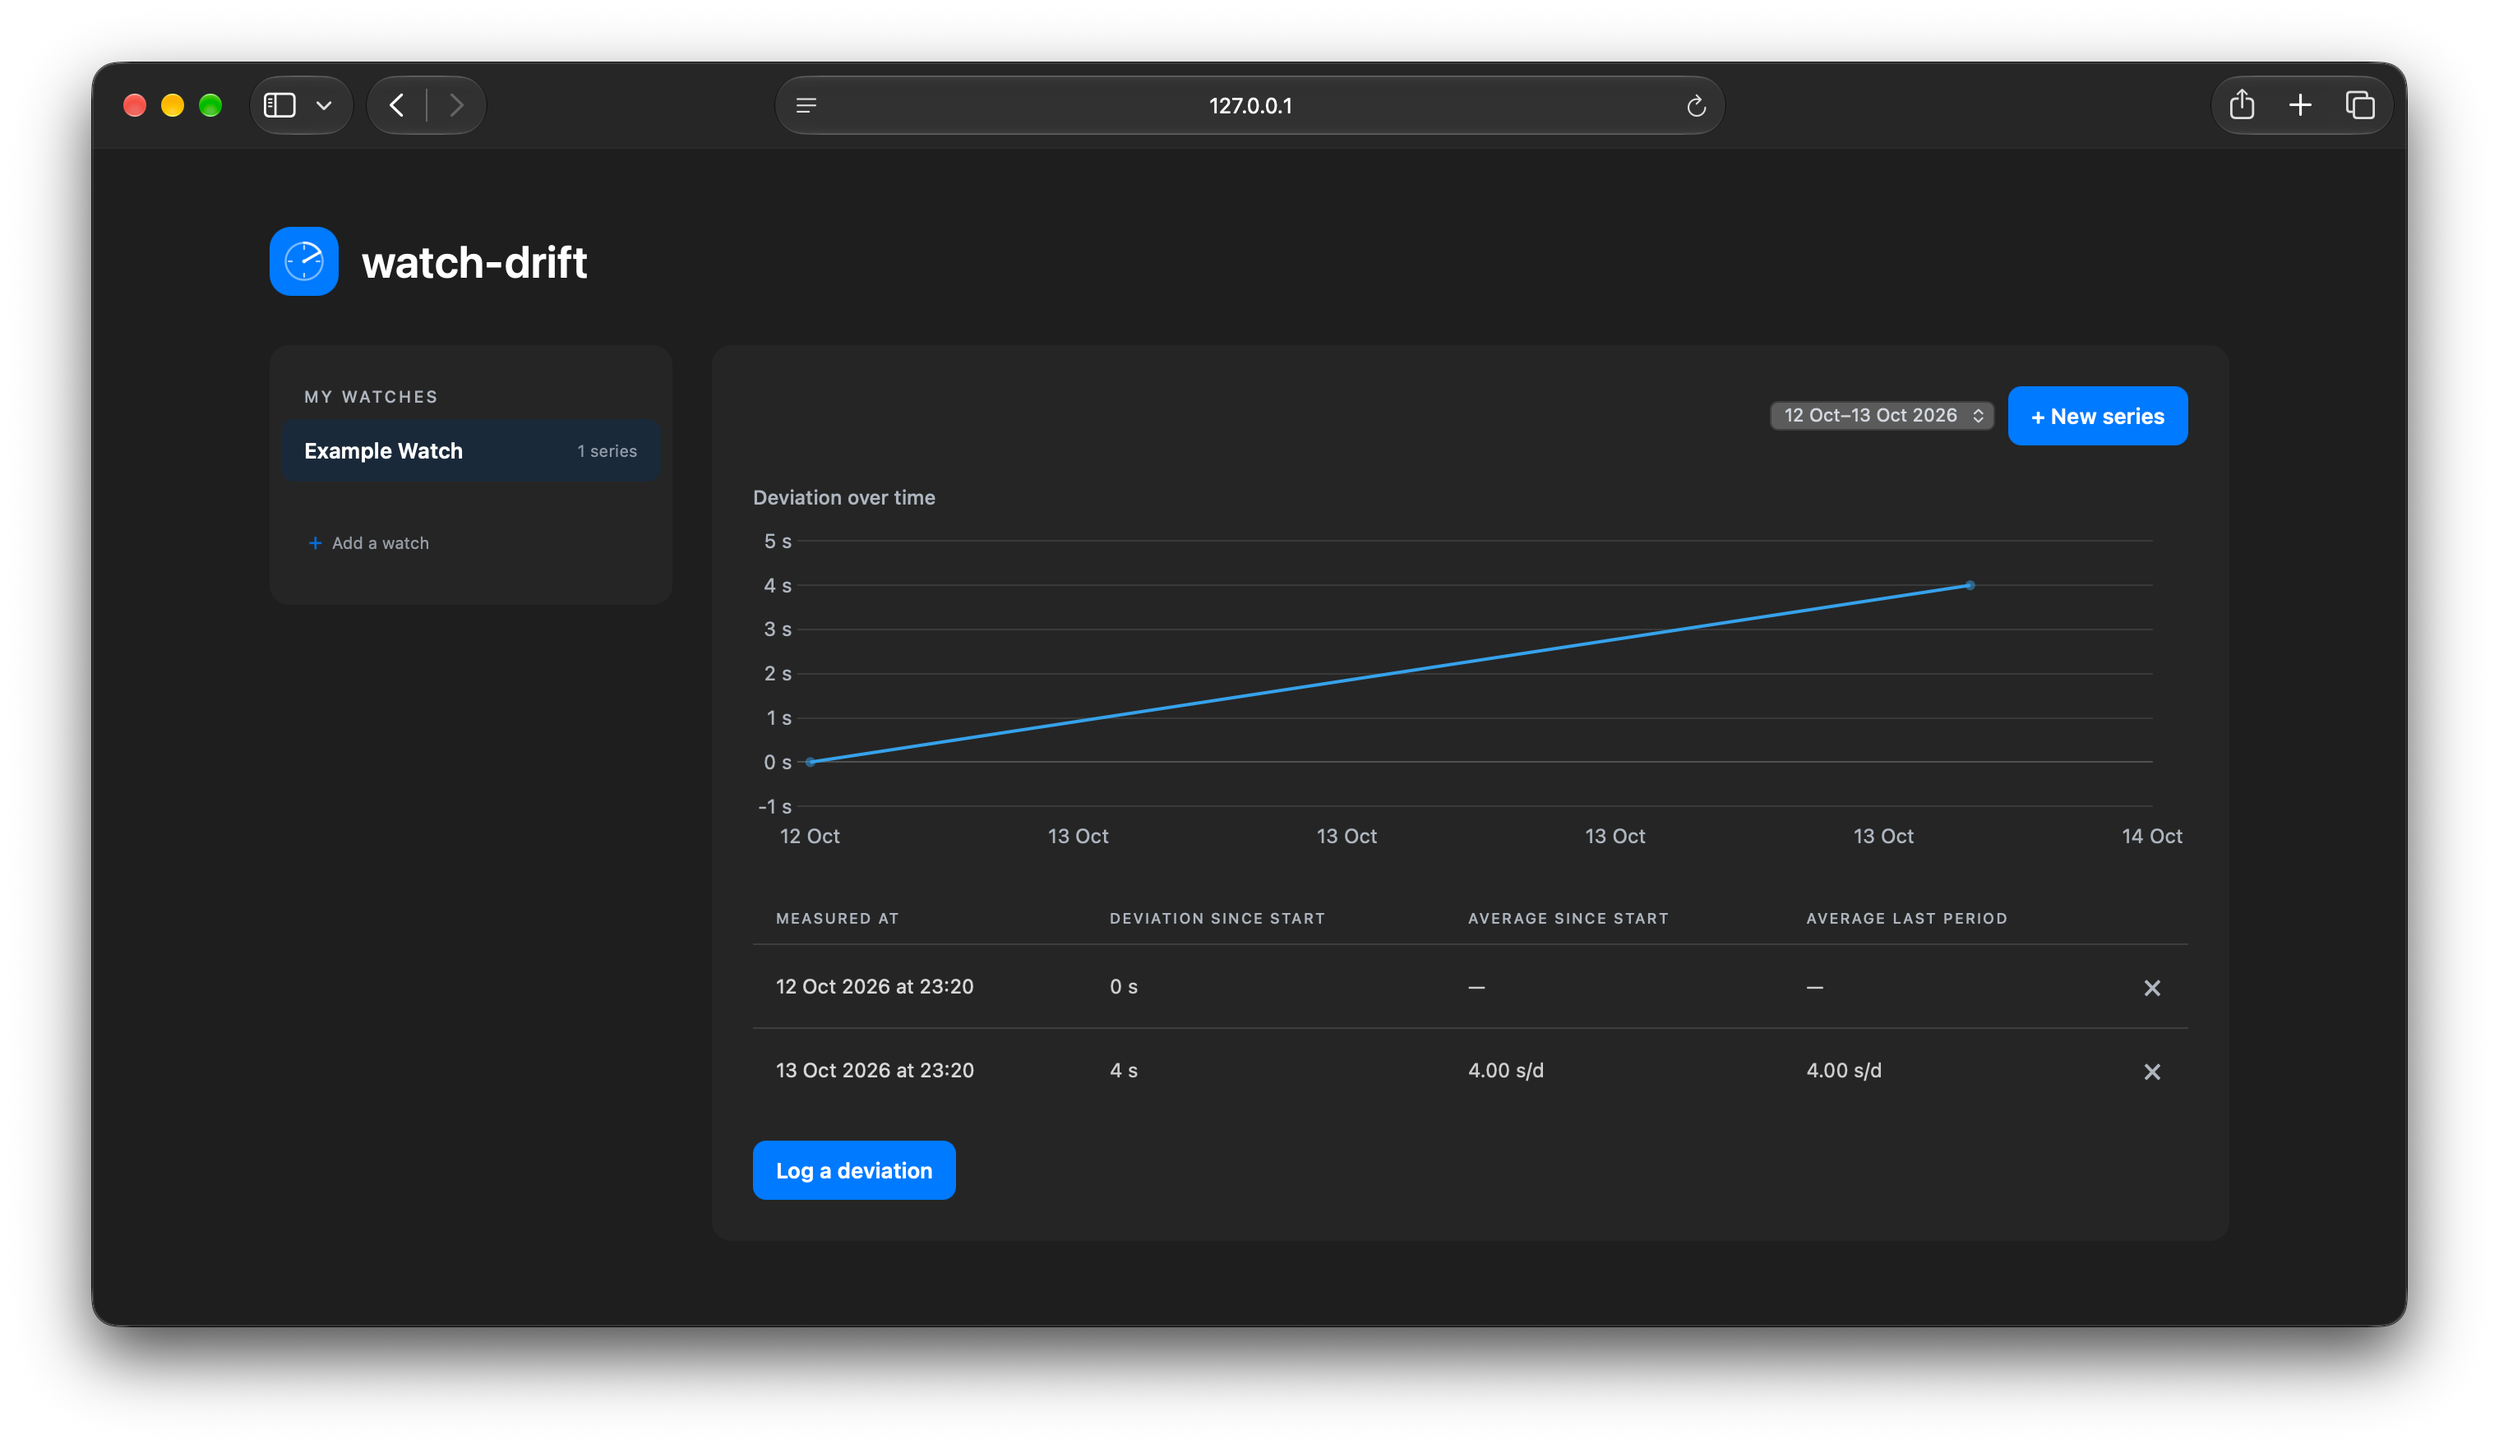
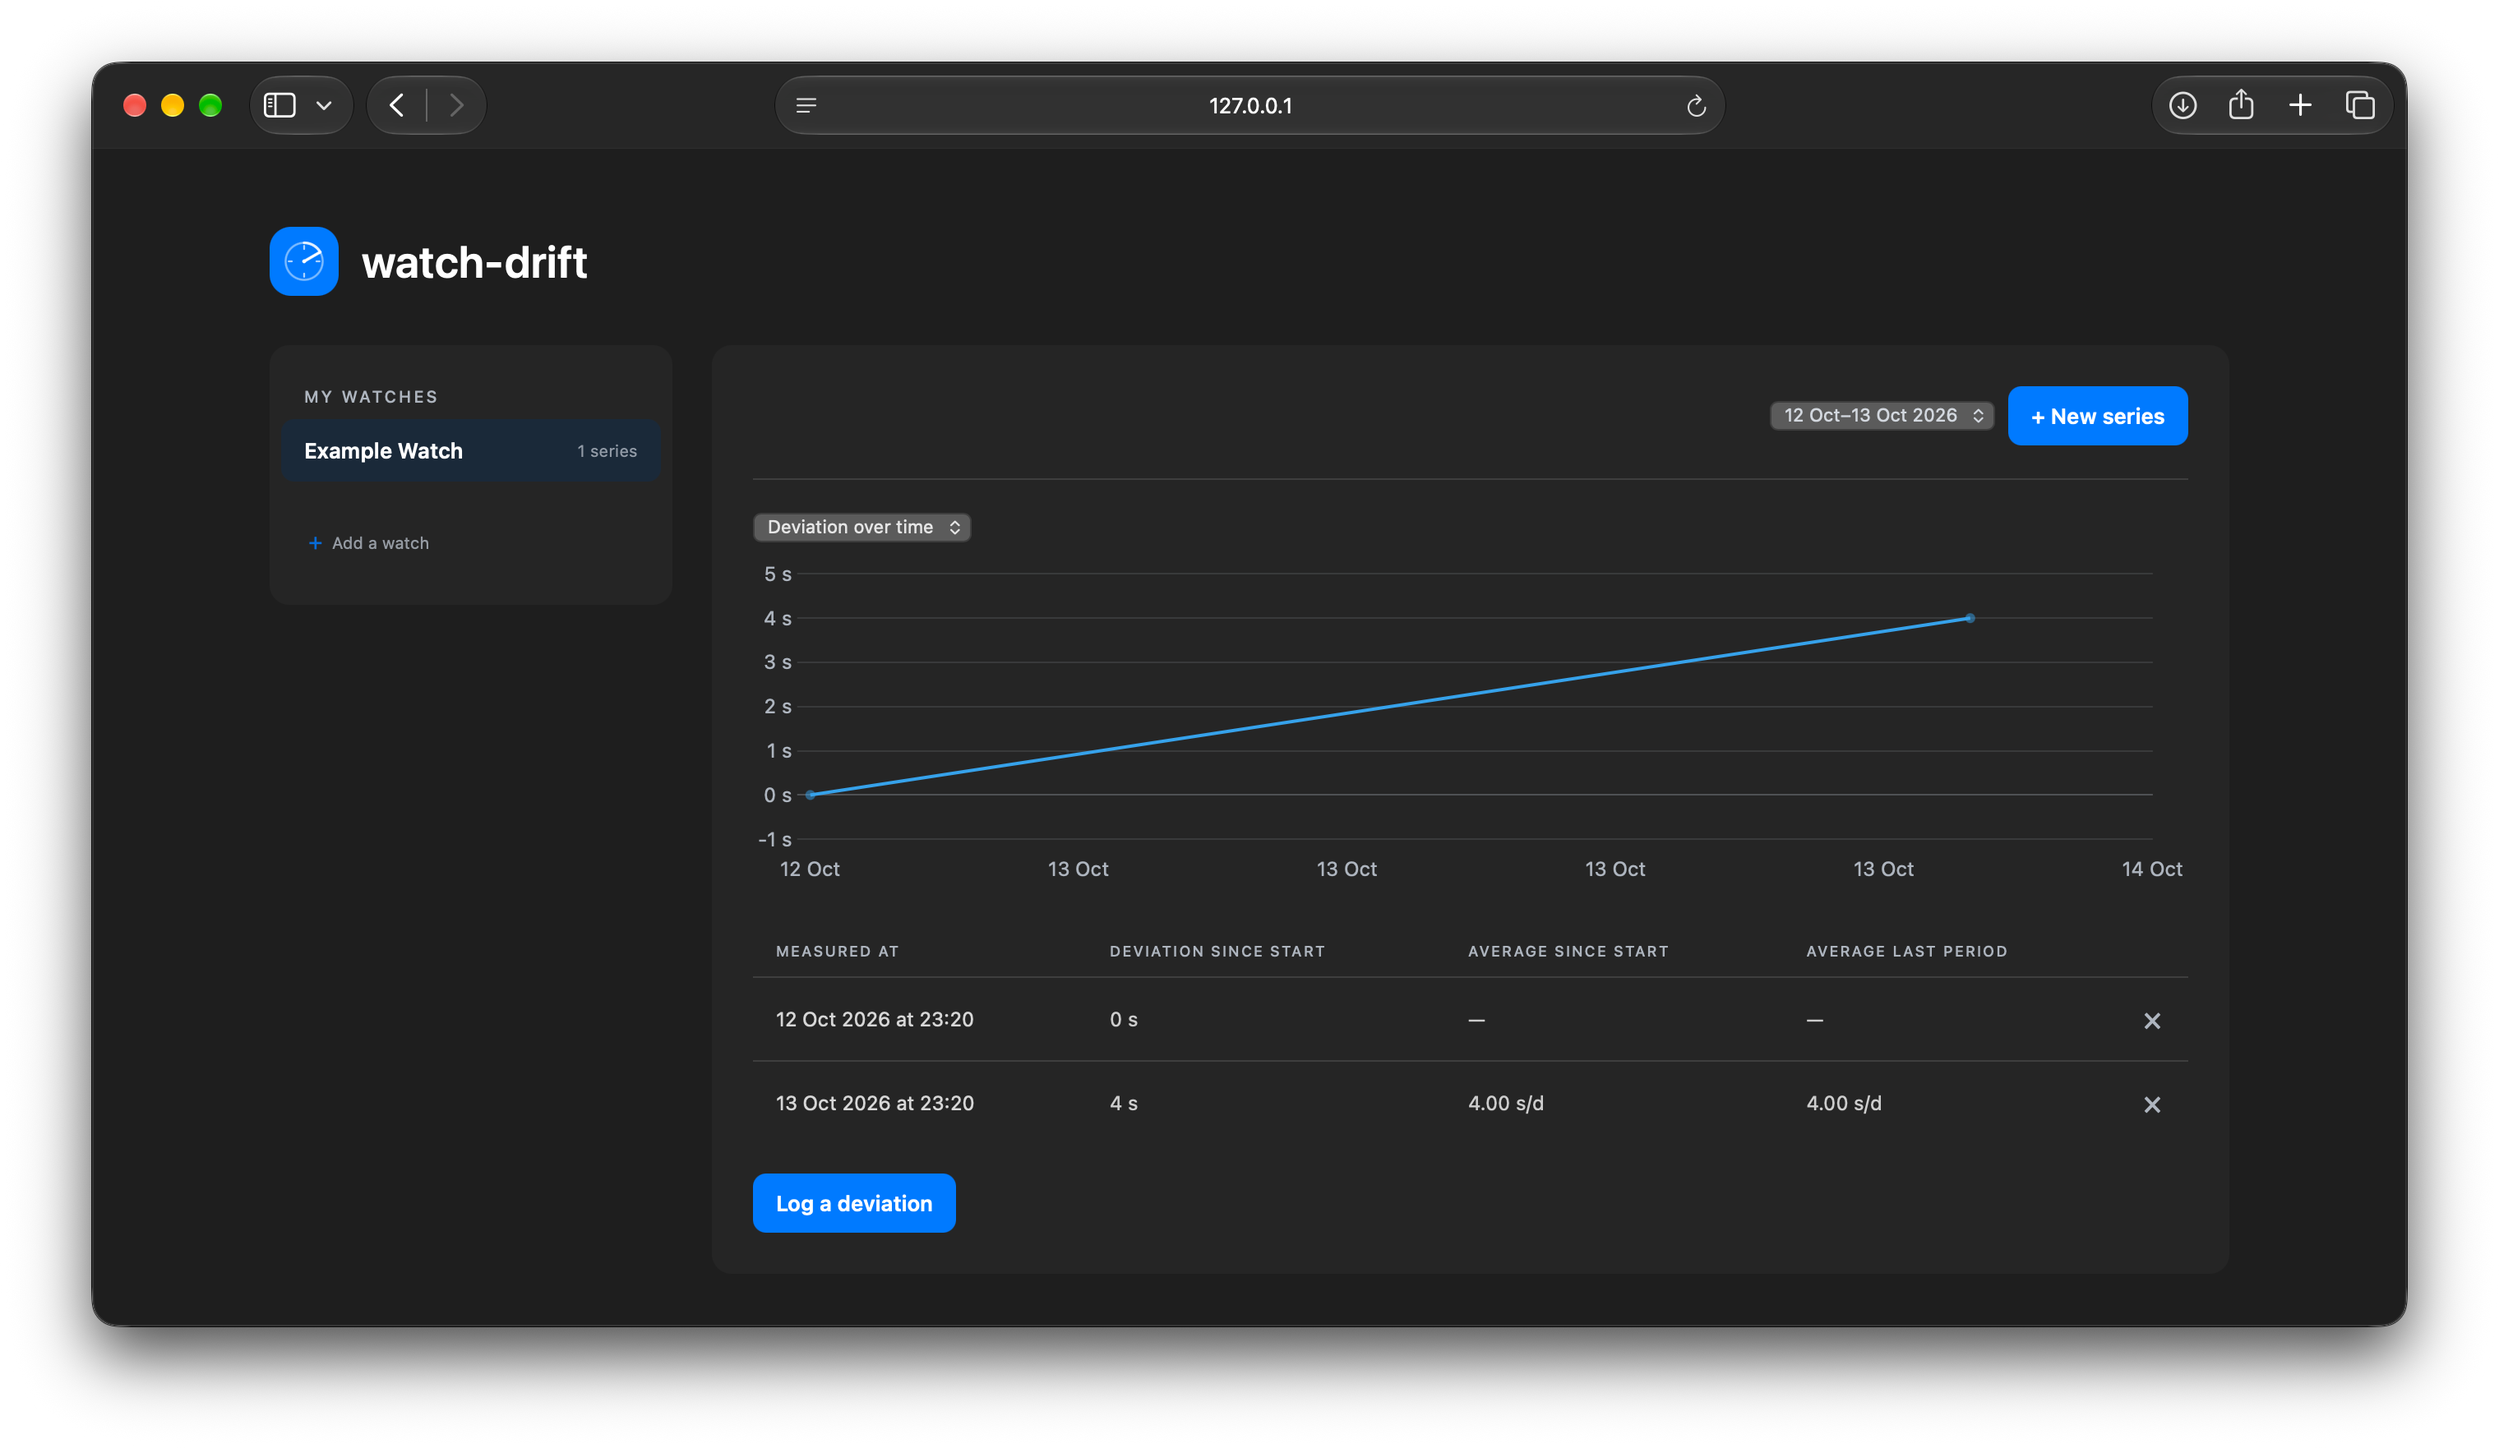
Add average chart view and update screenshot

diff --git a/static/app.js b/static/app.js
@@ -5,6 +5,8 @@ let selectedWatchId = null;
 let deviationChart = null;
 let chartMeasurements = [];
 let chartWatchRange = null;
+let chartWatchMeasurements = [];
+let chartMetric = 'deviation';
 let chartSeriesList = null;
 let printMode = false;
 const colorScheme = window.matchMedia('(prefers-color-scheme: dark)');
@@ -109,31 +111,41 @@ function renderDeviationChart(measurements, watchRange = chartWatchRange, series
   const dark = colorScheme.matches && !printMode;
   const textColor = printMode ? '#555' : getComputedStyle(document.documentElement).getPropertyValue('--muted').trim();
   const gridColor = dark ? 'rgba(174,181,191,.14)' : 'rgba(82,94,108,.12)';
-  const offsets = measurements.map(m => Number(m.offset_seconds));
-  const minOffset = Number(watchRange?.min_offset ?? Math.min(...offsets));
-  const maxOffset = Number(watchRange?.max_offset ?? Math.max(...offsets));
-  const rangePadding = Math.max((maxOffset - minOffset) * 0.06, 1);
-  const yMin = minOffset - rangePadding;
-  const yMax = maxOffset + rangePadding;
-  const datasets = seriesList
-    ? seriesList.map(series => ({
-        label: dateRangeLabel(series.started_at, series.ended_at),
-        data: measurements.filter(m => m.series_id === series.id)
-          .map(m => ({ x: new Date(m.measured_at).getTime(), y: Number(m.offset_seconds) })),
-        borderWidth: 2,
-        pointRadius: 3,
-        pointHoverRadius: 5,
-        pointBorderWidth: 0,
-        tension: 0,
-      }))
-    : [{
-      data: measurements.map(m => ({ x: new Date(m.measured_at).getTime(), y: Number(m.offset_seconds) })),
-      borderWidth: 2,
-      pointRadius: 3,
-      pointHoverRadius: 5,
-      pointBorderWidth: 0,
-      tension: 0,
-    }];
+  const average = chartMetric === 'average';
+  const unit = average ? 's/d' : 's';
+  $('#chart-title').textContent = average ? 'Average over time' : 'Deviation over time';
+  $('#deviation-chart').setAttribute('aria-label', average ? 'Average watch deviation since series start in seconds per day over time' : 'Watch deviation in seconds over time');
+  const toPoints = rows => rows.map(m => {
+    const elapsedDays = (new Date(m.measured_at) - new Date(rows[0].measured_at)) / 86400000;
+    return { x: new Date(m.measured_at).getTime(), y: average
+      ? (elapsedDays > 0 ? (m.offset_seconds - rows[0].offset_seconds) / elapsedDays : null)
+      : Number(m.offset_seconds) };
+  }).filter(point => point.y !== null && Number.isFinite(point.y));
+  const watchGroups = new Map();
+  chartWatchMeasurements.forEach(m => {
+    if (!watchGroups.has(m.series_id)) watchGroups.set(m.series_id, []);
+    watchGroups.get(m.series_id).push(m);
+  });
+  const values = average
+    ? [...watchGroups.values()].flatMap(rows => toPoints(rows).map(point => point.y))
+    : measurements.map(m => Number(m.offset_seconds));
+  const minValue = average ? Math.min(0, ...values) : Number(watchRange?.min_offset ?? Math.min(...values));
+  const maxValue = average ? Math.max(0, ...values) : Number(watchRange?.max_offset ?? Math.max(...values));
+  const rangePadding = Math.max((maxValue - minValue) * 0.06, average ? 0.1 : 1);
+  const yMin = minValue - rangePadding;
+  const yMax = maxValue + rangePadding;
+  const groups = seriesList
+    ? seriesList.map(series => ({ label: dateRangeLabel(series.started_at, series.ended_at), rows: measurements.filter(m => m.series_id === series.id) }))
+    : [{ rows: measurements }];
+  const datasets = groups.map(group => ({
+    label: group.label,
+    data: toPoints(group.rows),
+    borderWidth: 2,
+    pointRadius: 3,
+    pointHoverRadius: 5,
+    pointBorderWidth: 0,
+    tension: 0,
+  }));
   const shortDate = value => new Intl.DateTimeFormat('en-GB', { day: 'numeric', month: 'short' })
     .format(new Date(Number(value))).replace(/\.$/, '');
 
@@ -158,7 +170,7 @@ function renderDeviationChart(measurements, watchRange = chartWatchRange, series
         tooltip: {
           callbacks: {
             title: items => items.length ? dateLabel(new Date(items[0].parsed.x)) : '',
-            label: item => `${wholeSeconds(item.parsed.y)} s`,
+            label: item => `${average ? fixedSeconds(item.parsed.y) : wholeSeconds(item.parsed.y)} ${unit}`,
           },
         },
       },
@@ -176,7 +188,7 @@ function renderDeviationChart(measurements, watchRange = chartWatchRange, series
           border: { display: false },
           ticks: {
             color: textColor,
-            callback: value => `${new Intl.NumberFormat('en-GB', { maximumFractionDigits: 1 }).format(value)} s`,
+            callback: value => `${new Intl.NumberFormat('en-GB', { maximumFractionDigits: 1 }).format(value)} ${unit}`,
           },
         },
       },
@@ -228,6 +240,8 @@ async function showSeries(id) {
   selectedWatchId = data.series.watch_id;
   renderWatchList();
   updatePrintMeta(dateRangeLabel(data.series.started_at, data.measurements.at(-1)?.measured_at || data.series.started_at));
+  const watchData = await api(`/api/watches/${data.series.watch_id}/measurements`);
+  chartWatchMeasurements = watchData.measurements;
   renderDeviationChart(data.measurements, data.watch_range);
   renderMeasurementRows(data.measurements, false);
 }
@@ -238,6 +252,7 @@ async function showAllSeries() {
   $('#series-area').hidden = false;
   $('#open-measurement-dialog').hidden = true;
   updatePrintMeta('All series');
+  chartWatchMeasurements = data.measurements;
   renderDeviationChart(data.measurements, data.watch_range, data.series);
   renderMeasurementRows(data.measurements, true);
 }
@@ -353,3 +368,8 @@ $('#measured-at').value = localDateTime();
 updateReferenceClock();
 setInterval(updateReferenceClock, 250);
 refreshWatches().then(refreshSeries).catch(err => toast(err.message));
+
+$('#chart-metric').addEventListener('change', e => {
+  chartMetric = e.target.value;
+  renderDeviationChart(chartMeasurements, chartWatchRange, chartSeriesList);
+});

diff --git a/templates/index.html b/templates/index.html
@@ -4,9 +4,9 @@
   <meta charset="utf-8">
   <meta name="viewport" content="width=device-width, initial-scale=1">
   <title>watch-drift</title>
-  <link rel="stylesheet" href="{{ url_for('static', filename='style.css', v=12) }}">
+  <link rel="stylesheet" href="{{ url_for('static', filename='style.css', v=16) }}">
   <script src="https://cdn.jsdelivr.net/npm/chart.js@4.5.1/dist/chart.umd.min.js" defer></script>
-  <script src="{{ url_for('static', filename='app.js', v=8) }}" defer></script>
+  <script src="{{ url_for('static', filename='app.js', v=10) }}" defer></script>
 </head>
 <body>
   <main class="page">
@@ -31,7 +31,7 @@
         <div id="empty-state" class="empty"><div class="empty-icon">◷</div><h3>No measurement series yet</h3><p>Add a watch and start a series when you set it.</p></div>
         <div id="series-area" class="series-area" hidden>
           <section id="chart-section" class="chart-section" aria-labelledby="chart-title" hidden>
-            <h3 id="chart-title" class="chart-title">Deviation over time</h3>
+            <div class="chart-header"><h3 id="chart-title" class="chart-title">Deviation over time</h3><select id="chart-metric" aria-label="Chart metric"><option value="deviation">Deviation over time</option><option value="average">Average over time</option></select></div>
             <div class="chart-container"><canvas id="deviation-chart" role="img" aria-label="Watch deviation in seconds over time"></canvas></div>
           </section>
           <div class="table-wrap"><table><thead><tr id="measurement-headers"><th>MEASURED AT</th><th>DEVIATION SINCE START</th><th>AVERAGE SINCE START</th><th>AVERAGE LAST PERIOD</th><th></th></tr></thead><tbody id="measurement-rows"></tbody></table></div>

diff --git a/static/style.css b/static/style.css
@@ -253,3 +253,9 @@ dialog{border-radius:var(--radius-surface)}
 @media screen and (prefers-color-scheme:dark){
   :root{--muted:#aeb5bf}
 }
+
+.chart-header{display:flex;align-items:center;justify-content:space-between;gap:12px;margin-bottom:9px}
+.content>.series-toolbar{padding-bottom:20px;border-bottom:1px solid var(--line);margin-bottom:20px}
+.chart-header .chart-title{display:none;margin:0}
+#chart-metric{width:auto;font-size:11px;padding:5px 8px}
+@media print{#chart-metric{display:none}.chart-header{margin-bottom:2mm}.chart-header .chart-title{display:block}}
